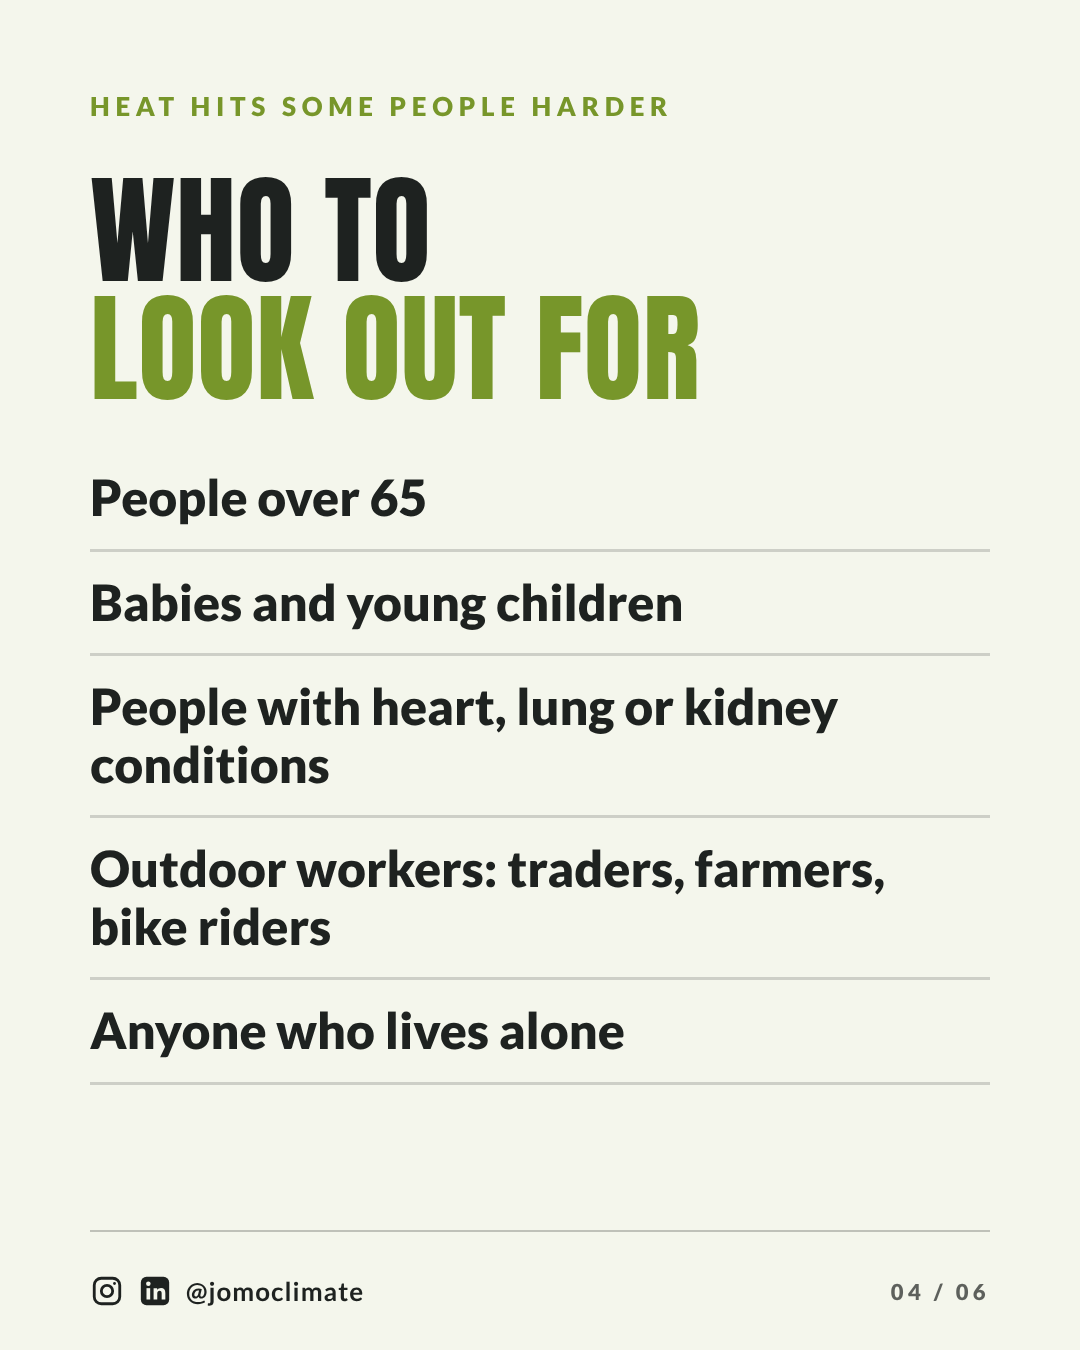
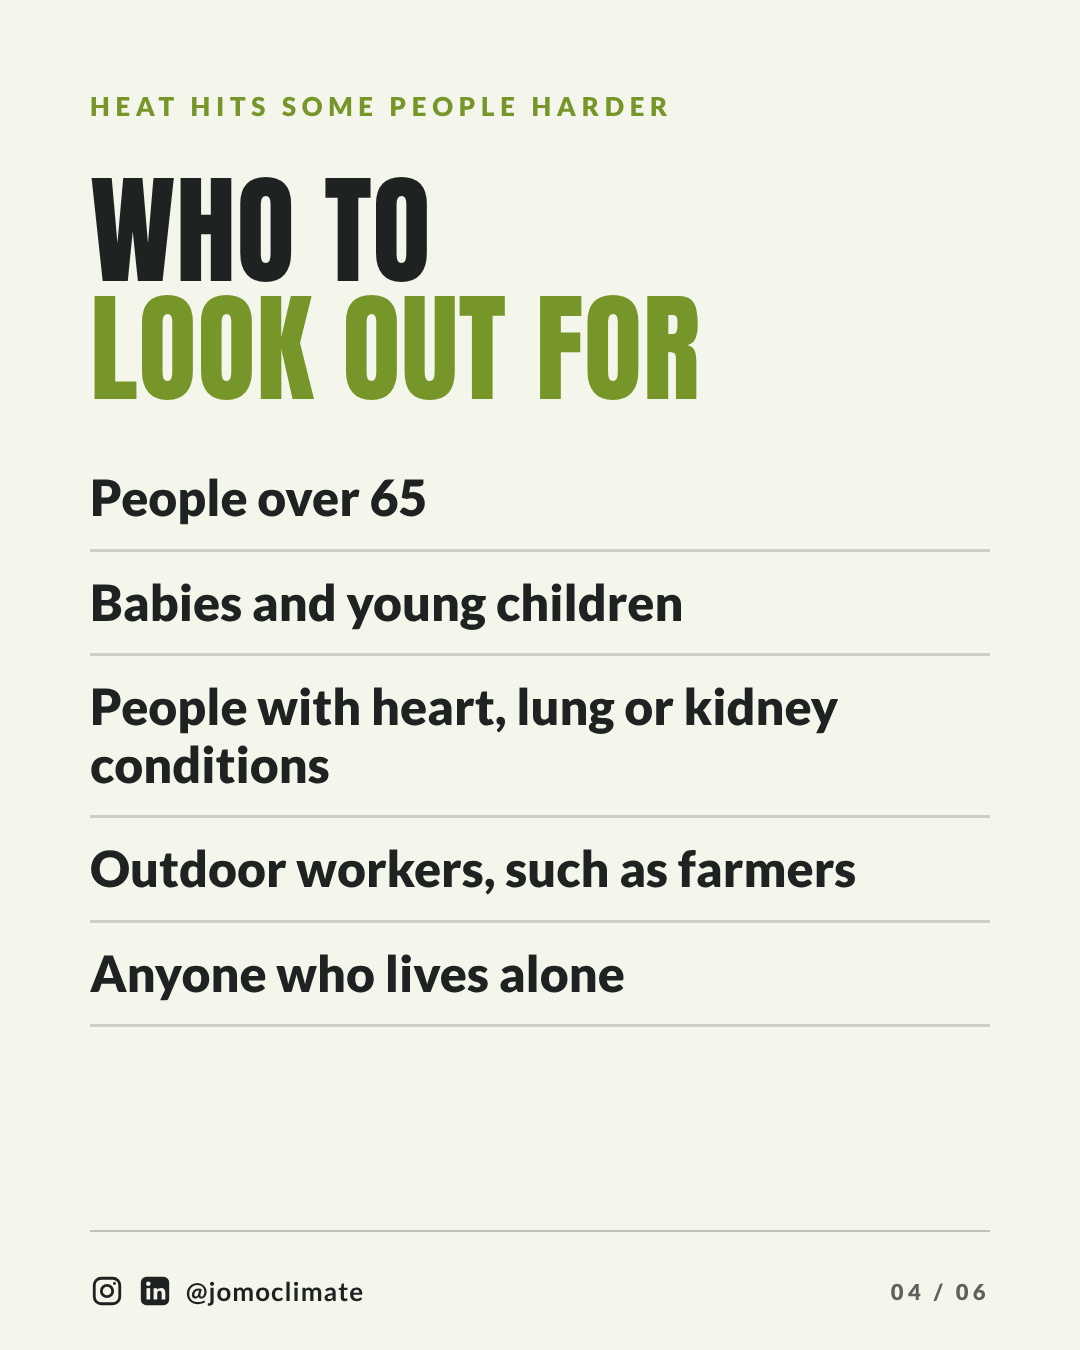
draft: 2026-10-24 super-el-nino fact-check fixes (in review)
Claude-Session: https://claude.ai/code/session_01F6NcUsFQ3PsVvfZiAxD4Cd

Changed region(s): [[0.0917, 0.6533, 0.5806, 0.7778], [0.4278, 0.6222, 0.825, 0.6844]]

diff --git a/tools/elnino.py b/tools/elnino.py
@@ -24,14 +24,14 @@ write("elnino-02", page(f"""
   <div class="h" style="font-size:330px;margin-top:50px;line-height:1">31,400</div>
   <div class="h" style="font-size:104px;margin-top:50px">more heat-related<br>deaths in Nigeria</div>
   <div class="body" style="margin-top:56px;font-weight:700;font-size:44px">September 2026 to February 2027,<br>compared with an average year.</div>
-  <div class="body" style="margin-top:60px;font-size:32px;max-width:880px">Source: Climate Impact Lab, University of Chicago, Sept 2026. A model projection, not a count, and not yet peer-reviewed.</div>
+  <div class="body" style="margin-top:60px;font-size:32px;max-width:880px">Source: Climate Impact Lab, University of Chicago, Sept 2026. A model projection, not a count. Method not yet published in a peer-reviewed journal.</div>
 """, "lime", 2, T))
 
 write("elnino-03", page(f"""
   <div class="label">Wait, what is El Ni&ntilde;o?</div>
   <div class="body" style="margin-top:50px;font-size:50px">A natural warming of the Pacific Ocean that shifts weather around the world.</div>
   <div class="h" style="font-size:132px;margin-top:70px">This one is<br><span class="acc">unusually strong.</span></div>
-  <div class="body" style="margin-top:50px;font-size:42px">US weather agency NOAA puts the chance of a strong to very strong El Ni&ntilde;o through March 2027 at more than 83%.</div>
+  <div class="body" style="margin-top:50px;font-size:42px">US weather agency NOAA puts the chance of a strong to very strong El Ni&ntilde;o through <span style="white-space:nowrap">January&ndash;March 2027</span> at more than 83%.</div>
   <div class="body" style="margin-top:50px;font-size:36px;opacity:.8">Researchers call this heat a &ldquo;postcard from the future&rdquo;: close to what climate change is projected to bring in about 20 years.</div>
 """, "ink", 3, T))
 
@@ -40,7 +40,7 @@ def who(txt):
 write("elnino-04", page(f"""
   <div class="label">Heat hits some people harder</div>
   <div class="h" style="font-size:120px;margin-top:50px">Who to<br><span class="acc">look out for</span></div>
-  <div style="margin-top:40px">{who("People over 65")}{who("Babies and young children")}{who("People with heart, lung or kidney conditions")}{who("Outdoor workers: traders, farmers, bike riders")}{who("Anyone who lives alone")}</div>
+  <div style="margin-top:40px">{who("People over 65")}{who("Babies and young children")}{who("People with heart, lung or kidney conditions")}{who("Outdoor workers, such as farmers")}{who("Anyone who lives alone")}</div>
 """, "off", 4, T))
 
 def check(txt):
@@ -52,7 +52,7 @@ write("elnino-05", page(f"""
   <div class="label">5 heat-smart habits</div>
   <div class="h" style="font-size:112px;margin-top:40px">Heat no be<br>small thing.</div>
   <div style="margin-top:20px">
-    {check("Drink water all day: 2 to 3 litres")}
+    {check("Drink water all day: at least 2 to 3 litres")}
     {check("Skip hard work in the hottest hours.<br>Find shade.")}
     {check("Open windows at night, close them<br>and block the sun by day")}
     {check("Light, loose clothes. Cool showers.")}
@@ -72,14 +72,14 @@ write("elnino-x-16x9", page(photo_bg("center 50%", ".55,.9") + rel(f"""
   <div class="label">Climate, explained locally</div>
   <div class="h" style="font-size:200px;margin-top:30px;line-height:1">31,400</div>
   <div class="h acc" style="font-size:84px;margin-top:34px">more heat-related deaths<br>projected in Nigeria</div>
-  <div class="body" style="margin-top:26px;font-size:32px">Sept 2026 to Feb 2027 &middot; Climate Impact Lab, University of Chicago &middot; not yet peer-reviewed</div>
+  <div class="body" style="margin-top:26px;font-size:32px">Sept 2026 to Feb 2027 &middot; Climate Impact Lab, University of Chicago &middot; a projection, not a count</div>
 """), "ink", 0, 0, 1600, 900))
 
 write("elnino-story-9x16", page(f"""
   <div style="height:360px"></div>
   <div class="label">Super El Ni&ntilde;o &middot; heat check</div>
   <div class="h" style="font-size:170px;margin-top:50px">Who are you<br><span class="acc">checking on</span><br>this week?</div>
-  <div class="body" style="margin-top:70px;font-size:54px">Grandma. The baby. The neighbour who lives alone. The trader in the sun all day.</div>
+  <div class="body" style="margin-top:70px;font-size:54px">Grandma. The baby. The neighbour who lives alone. The worker out in the sun all day.</div>
   <div class="body" style="margin-top:60px;font-weight:700;font-size:54px">Water. Shade. A cool room.<br>And a knock on the door.</div>
 """, "ink", 0, 0, 1080, 1920))
 print("ok")

diff --git a/content/posts/2026-10-24-super-el-nino/captions.md b/content/posts/2026-10-24-super-el-nino/captions.md
@@ -16,7 +16,7 @@ Super El Niño is here. Is your family ready for the heat? 🌡
 
 Researchers at the University of Chicago's Climate Impact Lab project about 31,400 more heat-related deaths in Nigeria between September 2026 and February 2027, compared with an average year. That's the highest projected toll of any country in their study.
 
-It's a model projection, not a count, and it hasn't been peer-reviewed yet. But a projection is a warning, not destiny.
+It's a model projection, not a count, and the method hasn't yet been published in a peer-reviewed journal. But a projection is a warning, not destiny.
 
 Heat no be small thing. Swipe for who to look out for, 5 heat-smart habits, and the danger signs. 🌱
 
@@ -29,14 +29,14 @@ Sources: Climate Impact Lab (impactlab.org), WHO, NOAA. Photo: Jonathan Yakubu /
 Caption — Facebook:
 Super El Niño is here. Is your family ready for the heat? 🌡
 
-Researchers at the University of Chicago's Climate Impact Lab project about 31,400 more heat-related deaths in Nigeria between September 2026 and February 2027, compared with an average year. That's the highest projected toll of any country in their study. It's a model projection, not a count, and it hasn't been peer-reviewed yet. But it's a warning worth hearing.
+Researchers at the University of Chicago's Climate Impact Lab project about 31,400 more heat-related deaths in Nigeria between September 2026 and February 2027, compared with an average year. That's the highest projected toll of any country in their study. It's a model projection, not a count, and the method hasn't yet been published in a peer-reviewed journal. But it's a warning worth hearing.
 
-What is El Niño? A natural warming of the Pacific Ocean that shifts weather around the world. This one is unusually strong: the US weather agency NOAA gives more than an 83% chance that a strong to very strong El Niño lasts through March 2027.
+What is El Niño? A natural warming of the Pacific Ocean that shifts weather around the world. This one is unusually strong: the US weather agency NOAA gives more than an 83% chance that a strong to very strong El Niño lasts through January–March 2027.
 
 Who to look out for: people over 65, babies and young children, people with heart, lung or kidney conditions, outdoor workers, and anyone who lives alone.
 
 5 heat-smart habits:
-1. Drink water all day: 2 to 3 litres.
+1. Drink water all day: at least 2 to 3 litres for adults.
 2. Skip hard work in the hottest hours and find shade.
 3. Open windows at night; close them and block the sun by day.
 4. Wear light, loose clothes and take cool showers.
@@ -48,15 +48,16 @@ Who will you check on this week? Follow NiMet for heat updates in your state.
 
 Read the study: https://impactlab.org/research/451000-at-risk/
 WHO heat advice: https://www.who.int/news-room/fact-sheets/detail/climate-change-heat-and-health
+WHO heatstroke signs and first aid: https://cdn.who.int/media/docs/default-source/environment-climate-change-and-health/signs-of-heat-stroke.pdf
 
 Photo: Jonathan Yakubu / Pexels.
 
 Alt text (one per slide):
 1. Cracked, dry earth under a dark overlay. Text: "Super El Niño is here. Is your family ready for the heat?" Small credit: "Stock photo: Jonathan Yakubu / Pexels". Tape: "Swipe".
-2. Lime green slide. Large "31,400", then "more heat-related deaths in Nigeria. September 2026 to February 2027, compared with an average year. Source: Climate Impact Lab, University of Chicago, Sept 2026. A model projection, not a count, and not yet peer-reviewed."
-3. Dark slide. "Wait, what is El Niño? A natural warming of the Pacific Ocean that shifts weather around the world. This one is unusually strong. US weather agency NOAA puts the chance of a strong to very strong El Niño through March 2027 at more than 83%. Researchers call this heat a 'postcard from the future': close to what climate change is projected to bring in about 20 years."
-4. Light slide. "Who to look out for": people over 65; babies and young children; people with heart, lung or kidney conditions; outdoor workers: traders, farmers, bike riders; anyone who lives alone.
-5. Lime slide. "Heat no be small thing." Five ticks: drink water all day, 2 to 3 litres; skip hard work in the hottest hours, find shade; open windows at night, close them and block the sun by day; light, loose clothes, cool showers; never leave a child in a parked car.
+2. Lime green slide. Large "31,400", then "more heat-related deaths in Nigeria. September 2026 to February 2027, compared with an average year. Source: Climate Impact Lab, University of Chicago, Sept 2026. A model projection, not a count. Method not yet published in a peer-reviewed journal."
+3. Dark slide. "Wait, what is El Niño? A natural warming of the Pacific Ocean that shifts weather around the world. This one is unusually strong. US weather agency NOAA puts the chance of a strong to very strong El Niño through January–March 2027 at more than 83%. Researchers call this heat a 'postcard from the future': close to what climate change is projected to bring in about 20 years."
+4. Light slide. "Who to look out for": people over 65; babies and young children; people with heart, lung or kidney conditions; outdoor workers, such as farmers; anyone who lives alone.
+5. Lime slide. "Heat no be small thing." Five ticks: drink water all day, at least 2 to 3 litres; skip hard work in the hottest hours, find shade; open windows at night, close them and block the sun by day; light, loose clothes, cool showers; never leave a child in a parked car.
 6. Dark slide with a lime leaf shape. "Confused? Fainting? Hot, dry skin? That's an emergency. Get medical help fast and cool the person down. A projection is not destiny. This week, check on one older neighbour, and follow NiMet for heat updates in your state."
 
 ---
@@ -66,15 +67,15 @@ Hook: 31,400 more heat-related deaths projected in Nigeria.
 Visual: `visuals/elnino-x-16x9.png` on post 1.
 
 Post 1:
-Nigeria has the highest projected heat death toll from this super El Niño: about 31,400 extra heat-related deaths, Sept 2026 to Feb 2027.
+In one study's projection, Nigeria has the highest heat death toll of any country this super El Niño: about 31,400 extra heat-related deaths, Sept 2026 to Feb 2027.
 
-It's a model projection, not a count, and not yet peer-reviewed. Still a warning worth hearing. 🧵
+A model projection, not a count, and not yet in a peer-reviewed journal. 🧵
 
 Post 2:
 Who's most at risk: people over 65, babies and young children, people with heart, lung or kidney conditions, outdoor workers, and anyone who lives alone.
 
 Post 3:
-What helps: water all day (2–3 litres), shade in the hottest hours, windows open at night and shut by day, light clothes.
+What helps: water all day (adults: at least 2–3 litres), shade in the hottest hours, windows open at night and shut by day, light clothes.
 
 Confusion, fainting or hot, dry skin in the heat is an emergency. Get help fast.
 
@@ -84,23 +85,24 @@ Post 4:
 Sources:
 Climate Impact Lab: https://impactlab.org/research/451000-at-risk/
 WHO: https://www.who.int/news-room/fact-sheets/detail/climate-change-heat-and-health
+Heatstroke signs: https://cdn.who.int/media/docs/default-source/environment-climate-change-and-health/signs-of-heat-stroke.pdf
 
 #ElNino
 
 (Each post is under 280 characters, links counted as 23.)
 
-Alt text: Cracked dry earth under a dark overlay. Text: "31,400 more heat-related deaths projected in Nigeria. Sept 2026 to Feb 2027. Climate Impact Lab, University of Chicago. Not yet peer-reviewed."
+Alt text: Cracked dry earth under a dark overlay. Text: "31,400 more heat-related deaths projected in Nigeria. Sept 2026 to Feb 2027. Climate Impact Lab, University of Chicago. A projection, not a count."
 
 ---
 
 ### Sun 2026-10-25, 10:00 WAT · LinkedIn · Climate, explained locally
-Hook: Nigeria faces the highest projected heat death toll of this super El Niño.
+Hook: One study projects more extra heat-related deaths in Nigeria than in any other country this El Niño season.
 Visual: `visuals/elnino-02.png` (the lime "31,400" slide), or the full carousel as a PDF.
 
 Caption — LinkedIn:
-Nigeria faces the highest projected heat death toll of this super El Niño.
+One study projects more extra heat-related deaths in Nigeria than in any other country between September 2026 and February 2027.
 
-The University of Chicago's Climate Impact Lab projects about 31,400 additional heat-related deaths in Nigeria between September 2026 and February 2027, compared with an average year. Their global figure is 451,000.
+The University of Chicago's Climate Impact Lab projects about 31,400 additional heat-related deaths in Nigeria between September 2026 and February 2027, compared with an average year. Their global figure, for June 2026 to February 2027, is 451,000.
 
 Two caveats matter. It's a model projection, not a count. And the method hasn't yet been published in a peer-reviewed journal.
 
@@ -116,15 +118,15 @@ Study: https://impactlab.org/research/451000-at-risk/
 
 #ClimateAdaptation #Nigeria
 
-Alt text: Lime green graphic. Large "31,400", then "more heat-related deaths in Nigeria. September 2026 to February 2027, compared with an average year. Source: Climate Impact Lab, University of Chicago, Sept 2026. A model projection, not a count, and not yet peer-reviewed."
+Alt text: Lime green graphic. Large "31,400", then "more heat-related deaths in Nigeria. September 2026 to February 2027, compared with an average year. Source: Climate Impact Lab, University of Chicago, Sept 2026. A model projection, not a count. Method not yet published in a peer-reviewed journal."
 
 ---
 
 ### Sun 2026-10-25, 16:00 WAT · Instagram + Facebook stories · Climate, explained locally
 Hook: Who are you checking on this week?
-Visual: `visuals/elnino-story-9x16.png`. Add the "Question" sticker in the app (prompt: "Your best tip for staying cool?") and a link sticker to the WHO page in the empty space below the text.
+Visual: `visuals/elnino-story-9x16.png`. Add the "Question" sticker in the app (prompt: "Your best tip for staying cool?") in the empty space below the text, and a link sticker (label "WHO heat advice", URL https://www.who.int/news-room/fact-sheets/detail/climate-change-heat-and-health) in the empty space above the "Super El Niño · heat check" label. Keep both stickers clear of the text and out of the top and bottom 250px. If Facebook stories doesn't offer the Question sticker, post the Facebook story with the link sticker only.
 
-Story text is on the image. Alt text: Dark story. "Super El Niño · heat check. Who are you checking on this week? Grandma. The baby. The neighbour who lives alone. The trader in the sun all day. Water. Shade. A cool room. And a knock on the door."
+Story text is on the image. Alt text: Dark story. "Super El Niño · heat check. Who are you checking on this week? Grandma. The baby. The neighbour who lives alone. The worker out in the sun all day. Water. Shade. A cool room. And a knock on the door."
 
 ---
 
@@ -133,4 +135,8 @@ Sources (see `review.md` for the line-by-line check):
 - The study's authors in The Conversation, via Phys.org (2026-09): https://phys.org/news/2026-09-nigeria-world-highest-death-toll.html
 - NOAA Climate Prediction Center, ENSO diagnostic discussion, 8 Oct 2026: https://www.cpc.ncep.noaa.gov/products/analysis_monitoring/enso_advisory/ensodisc.shtml
 - WHO fact sheet "Climate change, heat and health" (31 July 2026): https://www.who.int/news-room/fact-sheets/detail/climate-change-heat-and-health
+- Climate Impact Lab report PDF: https://impactlab.org/wp-content/uploads/2026/09/CIL_El-Nino-Report.pdf
+- WHO, signs of heat stroke: https://cdn.who.int/media/docs/default-source/environment-climate-change-and-health/signs-of-heat-stroke.pdf
+- CDC heat-related illness sheet: https://cdc.gov/natural-disasters/media/pdfs/2026/09/Heat_Related_Illness-NEWLOGO.pdf
+- NiMet heat-stress warning example (ICIR, 2025-04-11): https://www.icirnigeria.org/scorching-heat-nimet-issues-warning-to-18-northern-states/
 - Fact Check Africa explainer on the 31,400 figure: https://factcheckafrica.net/explainer-what-nigerians-should-know-about-el-nino-and-the-projection-of-31400-heat-related-deaths/

diff --git a/content/posts/2026-10-24-super-el-nino/review.md b/content/posts/2026-10-24-super-el-nino/review.md
@@ -1,0 +1,25 @@
+# Review: Super El Niño and heat in Nigeria · Sat 2026-10-24 to Sun 2026-10-25 · Instagram + Facebook carousel, X thread, LinkedIn, stories
+
+## Fact-check (Fact-checker)
+
+Every source was opened, including the Climate Impact Lab (CIL) PDF report and the WHO and CDC heatstroke sheets. All 8 PNGs were viewed; slide text matches the alt text.
+
+| Claim | Where | Source | Verdict |
+|---|---|---|---|
+| "Super El Niño" is under way | Hook, slide 1, story | CIL report PDF ("current 'Super El Niño' that began in June"); NOAA CPC 8 Oct 2026 (El Niño Advisory, "continues to strengthen") | Verified ("Super" is CIL's term, not NOAA's) |
+| University of Chicago's Climate Impact Lab | All | https://impactlab.org/wp-content/uploads/2026/09/CIL_El-Nino-Report.pdf | Verified |
+| About 31,400 more heat-related deaths in Nigeria, Sept 2026 to Feb 2027, vs an average year (1996–2025 baseline) | All | https://impactlab.org/research/451000-at-risk/ ; CIL PDF fig. 2 and footnote 3 | Verified |
+| Highest projected toll of any country in the study | IG/FB, X 1, LinkedIn | CIL PDF fig. 2 (top 10 countries: 1. Nigeria) | Verified, scoped to the study and its Sept–Feb window. **Fixed:** X and LinkedIn wording was broader ("of this super El Niño") |
+| Global 451,000, June 2026 to Feb 2027 | LinkedIn | CIL PDF footnote 1 | **Fixed:** window added |
+| Model projection, not a count; method not yet published in a peer-reviewed journal | All | CIL ("Full details on the method will be published in an upcoming peer-reviewed journal"); Phys.org (draws on peer-reviewed CIL research) | **Fixed:** "not yet peer-reviewed" changed everywhere |
+| NOAA: >83% chance of strong-to-very-strong El Niño through January–March 2027 | FB, slide 3 | https://www.cpc.ncep.noaa.gov/products/analysis_monitoring/enso_advisory/ensodisc.shtml (8 Oct 2026) | **Fixed:** was "through March 2027" |
+| "Postcard from the future"; like climate change ~20 years out | Slide 3, LinkedIn | CIL PDF p.1 and p.4 | Verified |
+| El Niño = natural warming of the Pacific that shifts weather worldwide | FB, slide 3 | General definition (NOAA) | Low risk |
+| At-risk: over 65; babies and young children; heart, lung or kidney conditions; outdoor workers; living alone; homes without cooling | Slide 4, FB, X 2, LinkedIn, story | https://www.who.int/news-room/fact-sheets/detail/climate-change-heat-and-health ; Phys.org | Verified. **Fixed:** "traders, bike riders" had no source; now "Outdoor workers, such as farmers"; story "trader" now "worker" |
+| Water at least 2–3 litres a day; avoid strenuous activity in hottest hours; shade; windows open at night, shut by day; light loose clothes; cool showers; never leave a child in a parked car | Slide 5, FB, X 3 | WHO fact sheet (31 July 2026) | Verified ("at least" added to match WHO) |
+| Danger signs (confusion, fainting, hot dry skin) = emergency; get help, cool the person down | Slide 6, FB, X 3 | https://cdn.who.int/media/docs/default-source/environment-climate-change-and-health/signs-of-heat-stroke.pdf ; https://cdc.gov/natural-disasters/media/pdfs/2026/09/Heat_Related_Illness-NEWLOGO.pdf | Verified. **Fixed:** WHO heatstroke source added to FB and X |
+| NiMet issues state-level heat updates | IG, FB, slide 6 | https://www.icirnigeria.org/scorching-heat-nimet-issues-warning-to-18-northern-states/ (2025-04-11); Fact Check Africa | Verified (newest dated example April 2025; nimet.gov.ng was down at check time) |
+| Adaptation measures (heat warnings, outreach, cooling centres, worker protections, health capacity) | LinkedIn | CIL PDF p.4 | Verified |
+| "Many of them sit with employers, schools, health workers and community groups" | LinkedIn | JOMO framing, not a factual claim | OK |
+
+All links opened at check time.
